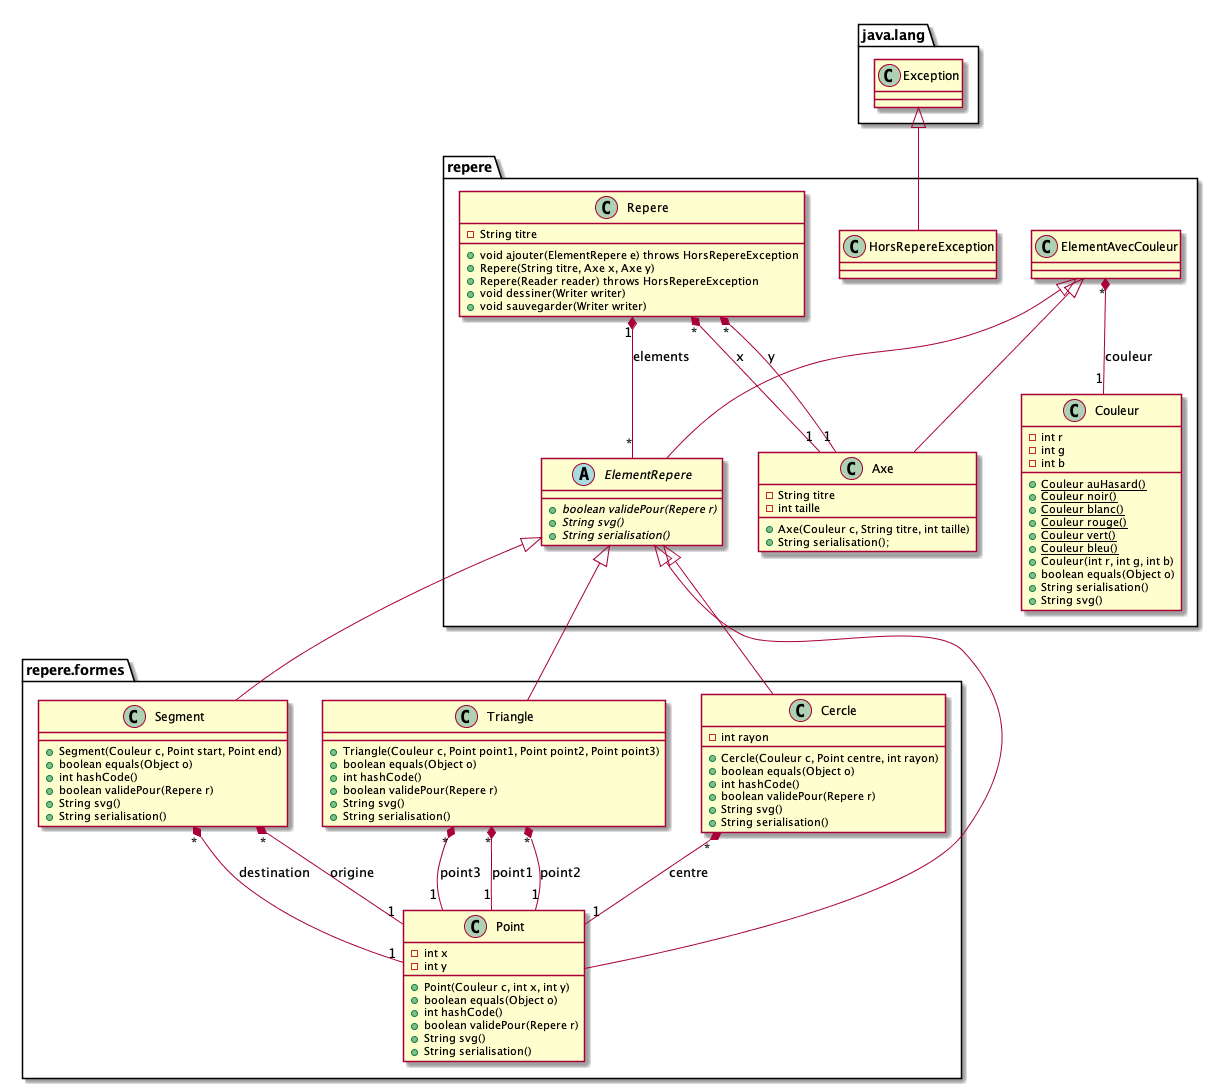
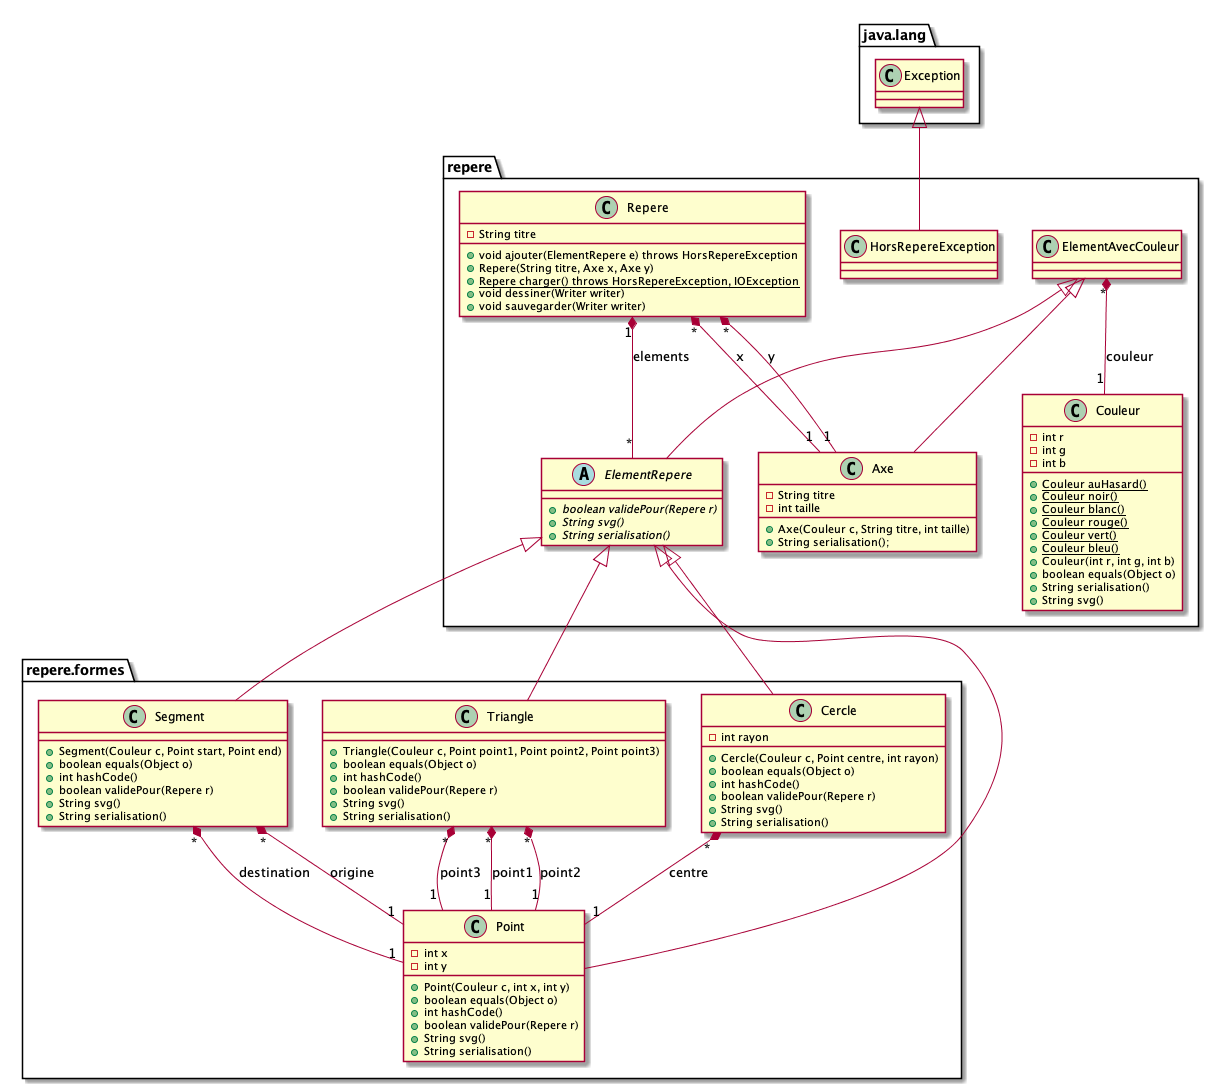
simplify loading method

diff --git a/tp2/src/main/java/repere/Repere.java b/tp2/src/main/java/repere/Repere.java
@@ -16,6 +16,14 @@ import repere.formes.Triangle;
 
 public class Repere {
 
+	private static final String REGEX_COULEUR = "\\[(\\d+),(\\d+),(\\d+)\\]";		
+	private static final Pattern PATTERN_REPERE = Pattern.compile("Repere (.*)");
+	private static final Pattern PATTERN_AXE = Pattern.compile(String.format("Axe (\\d+) %s (.*)", REGEX_COULEUR));
+	private static final Pattern PATTERN_POINT = Pattern.compile(String.format("Point \\((\\d+),(\\d+)\\) %s", REGEX_COULEUR));
+	private static final Pattern PATTERN_SEGMENT = Pattern.compile(String.format("Segment %s %s %s", REGEX_COULEUR, PATTERN_POINT, PATTERN_POINT));
+	private static final Pattern PATTERN_CERCLE = Pattern.compile(String.format("Cercle (\\d+) %s %s", REGEX_COULEUR, PATTERN_POINT));
+	private static final Pattern PATTERN_TRIANGLE = Pattern.compile(String.format("Triangle %s %s %s %s", REGEX_COULEUR, PATTERN_POINT, PATTERN_POINT, PATTERN_POINT));
+
 	private String titre;
 	
 	private Set<ElementRepere> elements;
@@ -31,71 +39,67 @@ public class Repere {
 		this.elements = new HashSet<ElementRepere>();
 	}
 
-	public Repere(Reader reader) throws HorsRepereException {
-		try {
-			String couleurDef = "\\[(\\d+),(\\d+),(\\d+)\\]";
-			
-			Pattern repere = Pattern.compile("Repere (.*)");
-			Pattern axe = Pattern.compile(String.format("Axe (\\d+) %s (.*)", couleurDef));
-			Pattern point = Pattern.compile(String.format("Point \\((\\d+),(\\d+)\\) %s", couleurDef));
-			Pattern segment = Pattern.compile(String.format("Segment %s %s %s", couleurDef, point, point));
-			Pattern cercle = Pattern.compile(String.format("Cercle (\\d+) %s %s", couleurDef, point));
-			Pattern triangle = Pattern.compile(String.format("Triangle %s %s %s %s", couleurDef, point, point, point));
-			
-			BufferedReader r = new BufferedReader(reader);
-			
-			Matcher repereDef = repere.matcher(r.readLine());
-			Matcher xDef = axe.matcher(r.readLine());
-			Matcher yDef = axe.matcher(r.readLine());
-			
-			repereDef.matches();
-			this.titre = repereDef.group(1);
-			xDef.matches();
-			this.x = new Axe(couleurPourMatcher(xDef, 2), xDef.group(5), Integer.parseInt(xDef.group(1)));
-			yDef.matches();
-			this.y = new Axe(couleurPourMatcher(yDef, 2), yDef.group(5), Integer.parseInt(yDef.group(1)));
-			this.elements = new HashSet<ElementRepere>();
-			
-			String line;
-			while ((line = r.readLine()) != null) {
-				if (line.charAt(0) == 'P') {
-					Matcher pDef = point.matcher(line);
-					pDef.matches();
-					ajouter(pointPourMatcher(pDef, 1));
-				} else if (line.charAt(0) == 'S') {
-					Matcher sDef = segment.matcher(line);
-					sDef.matches();
-					Segment s = new Segment(couleurPourMatcher(sDef, 1), pointPourMatcher(sDef, 4),
-							pointPourMatcher(sDef, 9));
-					ajouter(s);
-				} else if (line.charAt(0) == 'C') {
-					Matcher cDef = cercle.matcher(line);
-					cDef.matches();
-					Cercle c = new Cercle(couleurPourMatcher(cDef, 2), pointPourMatcher(cDef, 5), 
-							Integer.parseInt(cDef.group(1)));
-					ajouter(c);
-				} else if (line.charAt(0) == 'T') {
-					Matcher tDef = triangle.matcher(line);
-					tDef.matches();
-					Triangle t = new Triangle(couleurPourMatcher(tDef, 1), pointPourMatcher(tDef, 4),
-							pointPourMatcher(tDef, 9), pointPourMatcher(tDef, 14));
-					ajouter(t);
-				}
-			}
-			
-			r.close();
+	public static Repere charger(Reader reader) throws IOException, HorsRepereException {
+		BufferedReader r = new BufferedReader(reader);
+		Repere repere = chargeRepere(r);
+		chargeElements(repere, r);
+		return repere;
+	}
 
-		} catch (IOException e) {
-			System.err.println(e);
+	private static Repere chargeRepere(BufferedReader r) throws IOException {
+		Matcher repereDef = PATTERN_REPERE.matcher(r.readLine());
+		Matcher xDef = PATTERN_AXE.matcher(r.readLine());
+		Matcher yDef = PATTERN_AXE.matcher(r.readLine());
+		
+		repereDef.matches();
+		String titre = repereDef.group(1);
+		xDef.matches();
+		Axe x = new Axe(couleurPourMatcher(xDef, 2), xDef.group(5), Integer.parseInt(xDef.group(1)));
+		yDef.matches();
+		Axe y = new Axe(couleurPourMatcher(yDef, 2), yDef.group(5), Integer.parseInt(yDef.group(1)));
+		return new Repere(titre, x, y);
+	}
+
+	private static void chargeElements(Repere repere, BufferedReader r) throws IOException, HorsRepereException {
+		String line;
+		while ((line = r.readLine()) != null) {
+			ElementRepere element = null;
+			switch (line.charAt(0)) {
+				case 'P':
+					Matcher pDef = PATTERN_POINT.matcher(line);
+					pDef.matches();
+					element = pointPourMatcher(pDef, 1);
+					break;
+				case 'S':
+					Matcher sDef = PATTERN_SEGMENT.matcher(line);
+					sDef.matches();
+					element = new Segment(couleurPourMatcher(sDef, 1), pointPourMatcher(sDef, 4),
+							pointPourMatcher(sDef, 9));
+					break;
+				case 'C':
+					Matcher cDef = PATTERN_CERCLE.matcher(line);
+					cDef.matches();
+					element = new Cercle(couleurPourMatcher(cDef, 2), pointPourMatcher(cDef, 5), 
+							Integer.parseInt(cDef.group(1)));
+					break;
+				case 'T':
+					Matcher tDef = PATTERN_TRIANGLE.matcher(line);
+					tDef.matches();
+					element = new Triangle(couleurPourMatcher(tDef, 1), pointPourMatcher(tDef, 4),
+							pointPourMatcher(tDef, 9), pointPourMatcher(tDef, 14));
+					break;
+			}
+			if (element != null)
+				repere.ajouter(element);
 		}
 	}
 	
-	private Couleur couleurPourMatcher(Matcher def, int offset) {
+	private static Couleur couleurPourMatcher(Matcher def, int offset) {
 		return new Couleur(Integer.parseInt(def.group(offset)), Integer.parseInt(def.group(offset + 1)), 
 				Integer.parseInt(def.group(offset + 2)));
 	}
 	
-	private Point pointPourMatcher(Matcher def, int offset) {
+	private static Point pointPourMatcher(Matcher def, int offset) {
 		return new Point(couleurPourMatcher(def, offset + 2), Integer.parseInt(def.group(offset)), 
 				Integer.parseInt(def.group(offset + 1)));
 	}

diff --git a/tp2/src/test/java/repere/TestRepere.java b/tp2/src/test/java/repere/TestRepere.java
@@ -3,6 +3,7 @@ package repere;
 import org.junit.Test;
 import static org.junit.Assert.*;
 
+import java.io.IOException;
 import java.io.StringReader;
 import java.io.StringWriter;
 
@@ -33,7 +34,7 @@ public class TestRepere {
 	}
 	
 	@Test
-	public void testSerialisation() throws HorsRepereException {
+	public void testSerialisation() throws HorsRepereException, IOException {
 		String def = "Repere titre\n" +
 				"Axe 10 [255,255,255] titre\n" +
 				"Axe 10 [255,255,255] titre\n" +
@@ -45,7 +46,7 @@ public class TestRepere {
 				"Cercle 2 [0,0,255] Point (2,2) [0,0,255]\n" +
 				"Triangle [0,0,255] Point (1,1) [0,0,255] Point (2,1) [0,0,255] Point (2,2) [0,0,255]\n";
 		
-		Repere r = new Repere(new StringReader(def));
+		Repere r = Repere.charger(new StringReader(def));
 		assertEquals(r.getTitre(), "titre");
 		assertEquals(r.getX().getTitre(), "titre");
 		assertEquals(r.getY().getTitre(), "titre");
